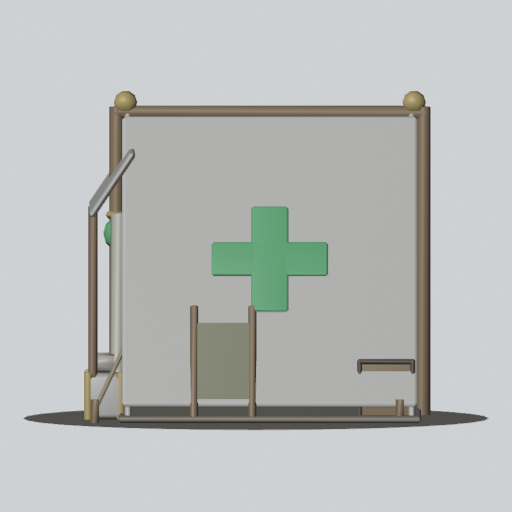
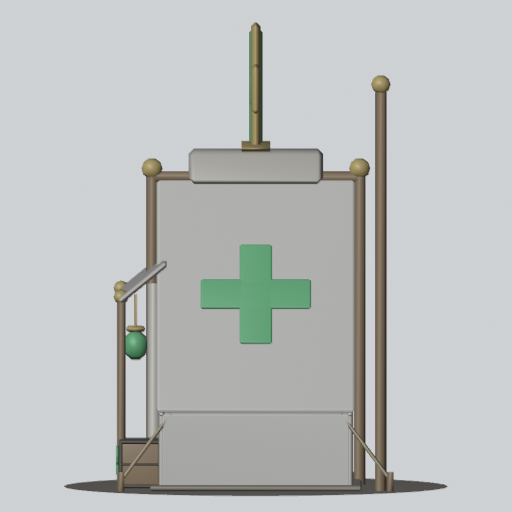
art: Hospital bolder upgrades - S1 a bigger wall tent with a door fly and a tall green-cross flag, S2 a vent roof crowned by a big glowing green cross in brass (#443)

diff --git a/tools/art/models/tower/_hospital.py b/tools/art/models/tower/_hospital.py
@@ -9,10 +9,11 @@ finds parts named Cross*; art parts are named Art_<group>, so the runtime task m
 at Art_glow (noted in the report).
 
 Stage 0 (tiers 0-2): tent, groundsheet, crosses, poles, guy ropes and pegs.
-Stage 1 (tier 3):    a canvas fly awning on two poles over the door, a stretcher leaning on
-                     the left side, a medical crate with a green cross, a water barrel.
-Stage 2 (tier 5):    brass ridge finials, a brass-cornered medical chest, rolled bandages,
-                     a lantern with a green glow hanging at the door.
+Stage 1 (tier 3):    a bigger wall tent (upright side walls, a higher ridge, a taller door),
+                     a canvas fly on two poles over the door, a tall flagpole at the back-left
+                     flying a green-cross flag, a medical crate.
+Stage 2 (tier 5):    a raised vent roof on the ridge crowned by a big glowing green cross in a
+                     brass frame, brass finials, a lantern with a green glow at the door.
 """
 
 import importlib.util
@@ -28,48 +29,67 @@ GREEN = (60, 190, 90)
 SHEET = (120, 110, 90)
 
 RIDGE_Y, EAVE_X, EAVE_Y, HALF_L = 2.55, 1.32, 0.12, 1.22  # tent: ridge height, eave x / y, half length (z)
-ANGLE = math.degrees(math.atan2(EAVE_X, RIDGE_Y - EAVE_Y))
+# stage 1+: a bigger wall tent - upright side walls, a higher ridge, shorter so both corners
+# (owner flag back-right, Rescue Beacon front-right) stay clear
+WALL_RIDGE, WALL_EAVE, WALL_HALF_L = 3.15, 0.8, 0.98
 
 
-def panel_point(sx, t, z, out=0.0):
+def panel_point(sx, t, z, out=0.0, ridge=RIDGE_Y, eave=EAVE_Y):
     """A point on the sloped side sx (-1 left / 1 right), t 0 at the ridge .. 1 at the eave,
     pushed `out` along the panel's outward normal."""
+    angle = math.atan2(EAVE_X, ridge - eave)
     x = sx * (0.04 + (EAVE_X - 0.04) * t)
-    y = RIDGE_Y + (EAVE_Y - RIDGE_Y) * t
-    nx, ny = math.cos(math.radians(ANGLE)), math.sin(math.radians(ANGLE))
-    return (x + sx * nx * out, y + ny * out, z)
+    y = ridge + (eave - ridge) * t
+    return (x + sx * math.cos(angle) * out, y + math.sin(angle) * out, z)
 
 
 def build(lp, stage):
     k = K.Kit(lp)
-    zc = 0.0 if stage == 0 else 0.12  # stage 1+: the tent sits back to make room for the fly
+    if stage == 0:
+        ry, ey, hl, zc = RIDGE_Y, EAVE_Y, HALF_L, 0.0
+    else:
+        ry, ey, hl, zc = WALL_RIDGE, WALL_EAVE, WALL_HALF_L, 0.0
+    angle = math.degrees(math.atan2(EAVE_X, ry - ey))
 
-    k.add("sheet", K.rbox((0, 0.03, zc), (2.9, 0.06, 2.6), bevel=0.02))
-    # the two sloped canvas sides and the back wall
-    panels = [K.bar(panel_point(sx, 0, zc, 0.04), panel_point(sx, 1, zc, 0.04), 2 * HALF_L + 0.1, 0.07, bevel=0.03) for sx in (-1, 1)]
-    panels.append(K.rbox((0, (RIDGE_Y + 0.06) / 2, zc + HALF_L), (2 * EAVE_X + 0.06, RIDGE_Y + 0.06, 0.06), bevel=0.02, taper=(0.04, 1.0)))
-    # the front gable wall (the door is cut in it below)
-    panels.append(K.rbox((0, (RIDGE_Y + 0.06) / 2, zc - HALF_L), (2 * EAVE_X + 0.06, RIDGE_Y + 0.06, 0.06), bevel=0.02, taper=(0.04, 1.0)))
+    k.add("sheet", K.rbox((0, 0.03, zc), (2.9, 0.06, 2.6 if stage == 0 else 2.2), bevel=0.02))
+    # the two sloped canvas sides, the back and front gable walls (the door is cut in the front)
+    panels = [K.bar(panel_point(sx, 0, zc, 0.04, ry, ey), panel_point(sx, 1, zc, 0.04, ry, ey), 2 * hl + 0.1, 0.07, bevel=0.03) for sx in (-1, 1)]
+    for sz in (-1, 1):
+        if stage == 0:
+            panels.append(K.rbox((0, (ry + 0.06) / 2, zc + sz * hl), (2 * EAVE_X + 0.06, ry + 0.06, 0.06), bevel=0.02, taper=(0.04, 1.0)))
+        else:
+            panels.append(K.rbox((0, ey / 2, zc + sz * hl), (2 * EAVE_X, ey, 0.06), bevel=0.02))
+            panels.append(K.rbox((0, ey + (ry - ey) / 2, zc + sz * hl), (2 * EAVE_X + 0.06, ry - ey + 0.04, 0.06), bevel=0.02, taper=(0.04, 1.0)))
+    if stage >= 1:  # upright side walls under the eaves
+        panels += [K.rbox((sx * (EAVE_X - 0.02), ey / 2, zc), (0.06, ey, 2 * hl), bevel=0.02) for sx in (-1, 1)]
     k.add("body", *panels)
     # the door: a dark opening proud of the gable, the flaps rolled and tied back along its edges
-    k.add("dark", K.rbox((0, 0.86, zc - HALF_L - 0.04), (1.3, 1.62, 0.04), bevel=0.01, taper=(0.14, 1.0)))
-    k.add("canvas2", *[K.rod((sx * 0.68, 0.1, zc - HALF_L - 0.08), (sx * 0.12, 1.72, zc - HALF_L - 0.08), 0.07, 8) for sx in (-1, 1)])
+    dh = 1.62 if stage == 0 else 2.0
+    k.add("dark", K.rbox((0, dh / 2 + 0.05, zc - hl - 0.04), (1.3, dh, 0.04), bevel=0.01, taper=(0.14 if stage == 0 else 0.5, 1.0)))
+    k.add("canvas2", *[K.rod((sx * 0.68, 0.1, zc - hl - 0.08), (sx * (0.12 if stage == 0 else 0.3), dh + 0.1, zc - hl - 0.08), 0.07, 8) for sx in (-1, 1)])
 
     # green crosses on both sides
     crosses = []
+    cs = 1.0 if stage == 0 else 1.15
     for sx in (-1, 1):
-        c = panel_point(sx, 0.5, zc, 0.09)
-        rot = (0, 0, ANGLE * sx)
-        crosses += [K.rbox(c, (0.05, 1.0, 0.32), bevel=0.02, rot=rot), K.rbox(c, (0.05, 0.32, 1.0), bevel=0.02, rot=rot)]
+        c = panel_point(sx, 0.5, zc, 0.09, ry, ey)
+        rot = (0, 0, angle * sx)
+        crosses += [K.rbox(c, (0.05, cs, 0.34), bevel=0.02, rot=rot), K.rbox(c, (0.05, 0.34, cs), bevel=0.02, rot=rot)]
     k.add("glow", *crosses)
 
     # ridge pole, upright poles at both ends, guy ropes to pegs (not at the beacon's corner)
-    wood = [K.rod((0, RIDGE_Y + 0.05, zc - HALF_L - 0.12), (0, RIDGE_Y + 0.05, zc + HALF_L + 0.12), 0.06, 8)]
-    wood += [K.rod((0, 0, zc + sz * (HALF_L + 0.1)), (0, RIDGE_Y + 0.1, zc + sz * (HALF_L + 0.1)), 0.06, 8) for sz in (-1, 1)]
+    wood = [K.rod((0, ry + 0.05, zc - hl - 0.12), (0, ry + 0.05, zc + hl + 0.12), 0.06, 8)]
+    wood += [K.rod((0, 0, zc + sz * (hl + 0.1)), (0, ry + 0.1, zc + sz * (hl + 0.1)), 0.06, 8) for sz in (-1, 1)]
     ropes, pegs = [], []
     for sx, sz in ((-1, -1), (-1, 1), (1, 1)):
-        top = (sx * 0.9, 0.9, zc + sz * (HALF_L - 0.1))
-        peg = (sx * 1.38, 0.12, zc + sz * (HALF_L - 0.1) if sz > 0 else -1.38)
+        if stage == 0:
+            top = (sx * 0.9, 0.9, zc + sz * (hl - 0.1))
+            peg = (sx * 1.38, 0.12, zc + sz * (hl - 0.1) if sz > 0 else -1.38)
+        else:
+            if sx > 0 and sz > 0:
+                continue  # the owner flag's corner
+            top = (sx * 1.3, ey, zc + sz * (hl - 0.1))
+            peg = (sx * 1.42, 0.12, sz * 1.4)
         ropes.append(K.rod(top, peg, 0.02, 4))
         pegs.append(K.rod((peg[0], 0.0, peg[2]), (peg[0], 0.2, peg[2]), 0.04, 5))
     k.add("wood", *wood, *pegs)
@@ -78,33 +98,41 @@ def build(lp, stage):
     brass = []
     if stage >= 1:
         # a canvas fly over the door on two poles
-        fz = zc - HALF_L
-        k.add("body", K.bar((0, RIDGE_Y - 0.25, fz + 0.05), (0, 1.75, -1.42), 1.9, 0.06, bevel=0.025))
-        k.add("wood", *[K.rod((sx * 0.85, 0, -1.4), (sx * 0.85, 1.75, -1.4), 0.04, 6) for sx in (-1, 1)])
-        # a stretcher leaning on the left side
-        a, b = (-1.42, 0.05, -0.4 + zc), (-0.97, 0.98, -0.4 + zc)  # its top rests on the tent side
-        k.add("wood", *[K.rod((a[0], a[1], a[2] + dz), (b[0], b[1], b[2] + dz), 0.035, 6) for dz in (-0.25, 0.25)])
-        k.add("drab", K.bar(K.along(a, b, 0.15), K.along(a, b, 0.85), 0.48, 0.03, bevel=0.01, up=(-0.9, 0.45, 0)))
-        # a medical crate at the back-left with a green cross, a water barrel beside it
-        core, frame = K.crate((-0.95, 0.27, 1.12), (0.6, 0.54, 0.5), 0)
+        fz = zc - hl
+        k.add("body", K.bar((0, 2.35, fz + 0.05), (0, 1.95, -1.42), 2.0, 0.06, bevel=0.025))
+        k.add("wood", *[K.rod((sx * 0.9, 0, -1.4), (sx * 0.9, 1.95, -1.4), 0.045, 6) for sx in (-1, 1)])
+        # a tall flagpole at the back-left flying a white flag with a green cross
+        fx, fzp = -1.32, 1.3
+        top = 4.35 if stage == 1 else 4.15
+        k.add("wood", K.rod((fx, 0, fzp), (fx, top, fzp), 0.06, 6))
+        fy = top - 0.42
+        k.add("canvas2", K.rbox((fx + 0.55, fy, fzp), (1.0, 0.66, 0.04), bevel=0.0))
+        k.add("glow", K.rbox((fx + 0.55, fy, fzp - 0.03), (0.42, 0.13, 0.03), bevel=0.0),
+              K.rbox((fx + 0.55, fy, fzp - 0.03), (0.13, 0.42, 0.03), bevel=0.0))
+        # a medical crate with a green cross by the door's left
+        core, frame = K.crate((-0.95, 0.27, -1.2), (0.55, 0.5, 0.45), 0)
         k.add("wood", core)
         k.add("dark", *frame)
-        k.add("glow", K.rbox((-0.95, 0.3, 0.86), (0.08, 0.3, 0.03), bevel=0.01), K.rbox((-0.95, 0.3, 0.86), (0.3, 0.08, 0.03), bevel=0.01))
-        k.add("wood", K.cyl((1.05, 0.35, -0.2), 0.27, 0.7, 12, top=0.9, bevel=0.04))
-        k.add("metal", *[K.ring((1.05, y, -0.2), 0.27, 0.025, 12, 4) for y in (0.15, 0.55)])
+        k.add("glow", K.rbox((-0.95, 0.3, -1.44), (0.08, 0.3, 0.03), bevel=0.0), K.rbox((-0.95, 0.3, -1.44), (0.3, 0.08, 0.03), bevel=0.0))
+        if stage >= 2:
+            brass.append(K.ell((fx, top + 0.08, fzp), (0.1, 0.1, 0.1), 8, 5))
 
     if stage >= 2:
-        # brass finials on the ridge ends
-        brass += [K.ell((0, RIDGE_Y + 0.14, zc + sz * (HALF_L + 0.02)), (0.1, 0.1, 0.1), 8, 5) for sz in (-1, 1)]
-        # a brass-cornered medical chest in front of the left door wall, bandage rolls on it
-        ch = (-0.6, 0.2, -1.3)
-        k.add("body", K.rbox(ch, (0.6, 0.4, 0.34), bevel=0.05))
-        brass += [K.rbox((ch[0] + sx * 0.27, ch[1], ch[2] + sz * 0.14), (0.07, 0.42, 0.07), bevel=0.02) for sx in (-1, 1) for sz in (-1, 1)]
-        k.add("canvas2", *[K.rod((ch[0] + dx, 0.48, ch[2] - 0.08), (ch[0] + dx, 0.48, ch[2] + 0.08), 0.08, 8) for dx in (-0.14, 0.12)])
+        # a raised vent roof on the ridge and, standing on it, a big glowing green cross in a
+        # brass frame - the crown
+        k.add("canvas2", K.rbox((0, ry + 0.17, zc), (0.95, 0.34, 1.4), bevel=0.06, taper=(0.5, 1.0)))
+        cy = ry + 0.34
+        brass += [K.rbox((0, cy + 0.03, zc), (1.05, 0.06, 0.3), bevel=0.0)]
+        k.add("glow", K.rbox((0, cy + 0.65, zc), (1.1, 0.36, 0.14), bevel=0.04),
+              K.rbox((0, cy + 0.65, zc), (0.36, 1.2, 0.14), bevel=0.04), piece="beacon")
+        brass += [K.rbox((0, cy + 0.65, zc), (1.24, 0.5, 0.1), bevel=0.04), K.rbox((0, cy + 0.65, zc), (0.5, 1.32, 0.1), bevel=0.04)]
+        # brass finials on the ridge ends, brass caps on the fly poles
+        brass += [K.ell((0, ry + 0.14, zc + sz * (hl + 0.1)), (0.11, 0.11, 0.11), 8, 5) for sz in (-1, 1)]
+        brass += [K.ell((sx * 0.9, 2.0, -1.4), (0.08, 0.08, 0.08), 6, 4) for sx in (-1, 1)]
         # a lantern hanging from the fly at the door, glowing green
-        lx, lz = 0.0, -1.2
-        brass += [K.cyl((lx, 1.72, lz), 0.1, 0.06, 8), K.rod((lx, 1.75, lz), (lx, 2.1, lz), 0.015, 5)]
-        k.add("glow", K.ell((lx, 1.56, lz), (0.11, 0.14, 0.11), 8, 5), piece="lantern")
+        lx, lz = 0.0, -1.25
+        brass += [K.cyl((lx, 1.62, lz), 0.11, 0.06, 8), K.rod((lx, 1.65, lz), (lx, 1.98, lz), 0.015, 5)]
+        k.add("glow", K.ell((lx, 1.45, lz), (0.13, 0.16, 0.13), 8, 5), piece="lantern")
     if brass:
         k.add("brass", *brass)
 
